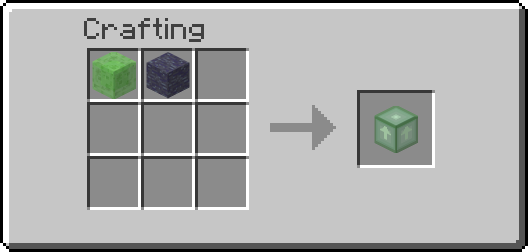
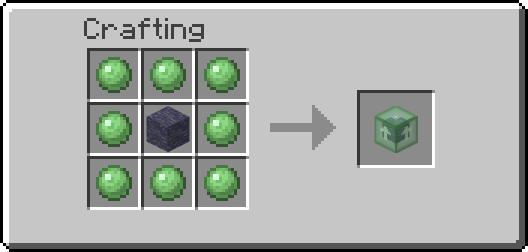
Odd Slime: Oddstone ringed by slime balls; Oddstone core inside (textures unchanged)
Recipe: one Oddstone surrounded by eight slime balls (GameTest checks it).
Model: an Oddstone core inside the translucent shell, like vanilla slime.
Sean's textures kept (new ones are commissioned); Claude's texture drafts
stay parked on beta/indicators. README, pictures and changelog updated.
12/12 GameTests pass; jar check passes.

diff --git a/src/main/java/com/ideomancer/ideomod/gametest/IdeomodGameTests.java b/src/main/java/com/ideomancer/ideomod/gametest/IdeomodGameTests.java
@@ -450,6 +450,11 @@ public class IdeomodGameTests {
                 cob, cob, cob,
                 red, Items.STICKY_PISTON, odd,
                 cob, cob, cob);
+        Item ball = Items.SLIME_BALL;
+        if (problem == null) problem = checkShaped(helper, "odd_slime", ModItems.ODD_SLIME.get(), 1,
+                ball, ball, ball,
+                ball, odd, ball,
+                ball, ball, ball);
         Item cuNug = ModItems.COPPER_NUGGET.get();
         if (problem == null) problem = checkShaped(helper, "copper_frame", ModItems.COPPER_FRAME.get(), 4,
                 cu, cuNug, cu,

diff --git a/tools/renders/blocks.py b/tools/renders/blocks.py
@@ -143,7 +143,9 @@ def fluid(p):
 # -------------------------------------------------------------------- mod --
 
 def odd_slime(p):
-    return directional("odd_slime_front", "odd_slime_back", "odd_slime_side", p.get("facing", "up"))
+    """Oddstone core inside a translucent shell, like vanilla slime; the shell is directional."""
+    core = (box(3, 3, 3, 13, 13, 13, "oddstone", uv=(3, 3, 13, 13)), False, C)
+    return [core] + directional("odd_slime_front", "odd_slime_back", "odd_slime_side", p.get("facing", "up"))
 
 
 def repulser(p):

diff --git a/README.md b/README.md
@@ -133,6 +133,8 @@ A slime block with a direction. It is sticky on all six sides, but only when it 
 
 It is placed like a piston, facing you. It never sticks to slime or honey blocks, and it cannot grab Oddstone.
 
+Like a vanilla slime block it has a smaller block inside it; Odd Slime's is Oddstone, seen through the slime.
+
 ## Oddstone Repulser and Attractor
 
 Two blocks that move Oddstone at a distance. Each acts along the line it faces, up to 12 blocks, and ignores whatever is in between.
@@ -422,7 +424,7 @@ Pictures drawn in the 1.20.1 crafting windows by `tools/renders/recipes.py`, str
 <tr><td align="center"><img src="docs/media/recipes/iron_frame.png" width="352" alt="Iron Frame ×4"><br>Iron Frame ×4</td><td align="center"><img src="docs/media/recipes/copper_frame.png" width="352" alt="Copper Frame ×4"><br>Copper Frame ×4</td></tr>
 <tr><td align="center"><img src="docs/media/recipes/framed_block.png" width="352" alt="Framed block: any frame + any frameable block"><br>Framed block: any frame + any frameable block</td><td align="center"><img src="docs/media/recipes/drill.png" width="352" alt="Drill"><br>Drill</td></tr>
 <tr><td align="center"><img src="docs/media/recipes/oddstone_repulser.png" width="352" alt="Repulser"><br>Repulser</td><td align="center"><img src="docs/media/recipes/oddstone_attractor.png" width="352" alt="Attractor"><br>Attractor</td></tr>
-<tr><td align="center"><img src="docs/media/recipes/odd_slime.png" width="352" alt="Odd Slime, any arrangement"><br>Odd Slime, any arrangement</td><td align="center"><img src="docs/media/recipes/redstone_rod.png" width="352" alt="Redstone Rod"><br>Redstone Rod</td></tr>
+<tr><td align="center"><img src="docs/media/recipes/odd_slime.png" width="352" alt="Odd Slime"><br>Odd Slime</td><td align="center"><img src="docs/media/recipes/redstone_rod.png" width="352" alt="Redstone Rod"><br>Redstone Rod</td></tr>
 <tr><td align="center"><img src="docs/media/recipes/copper_nugget.png" width="352" alt="Copper Nugget ×9"><br>Copper Nugget ×9</td><td align="center"><img src="docs/media/recipes/copper_ingot_from_nuggets.png" width="352" alt="Copper ingot from nuggets"><br>Copper ingot from nuggets</td></tr>
 </table>
 
